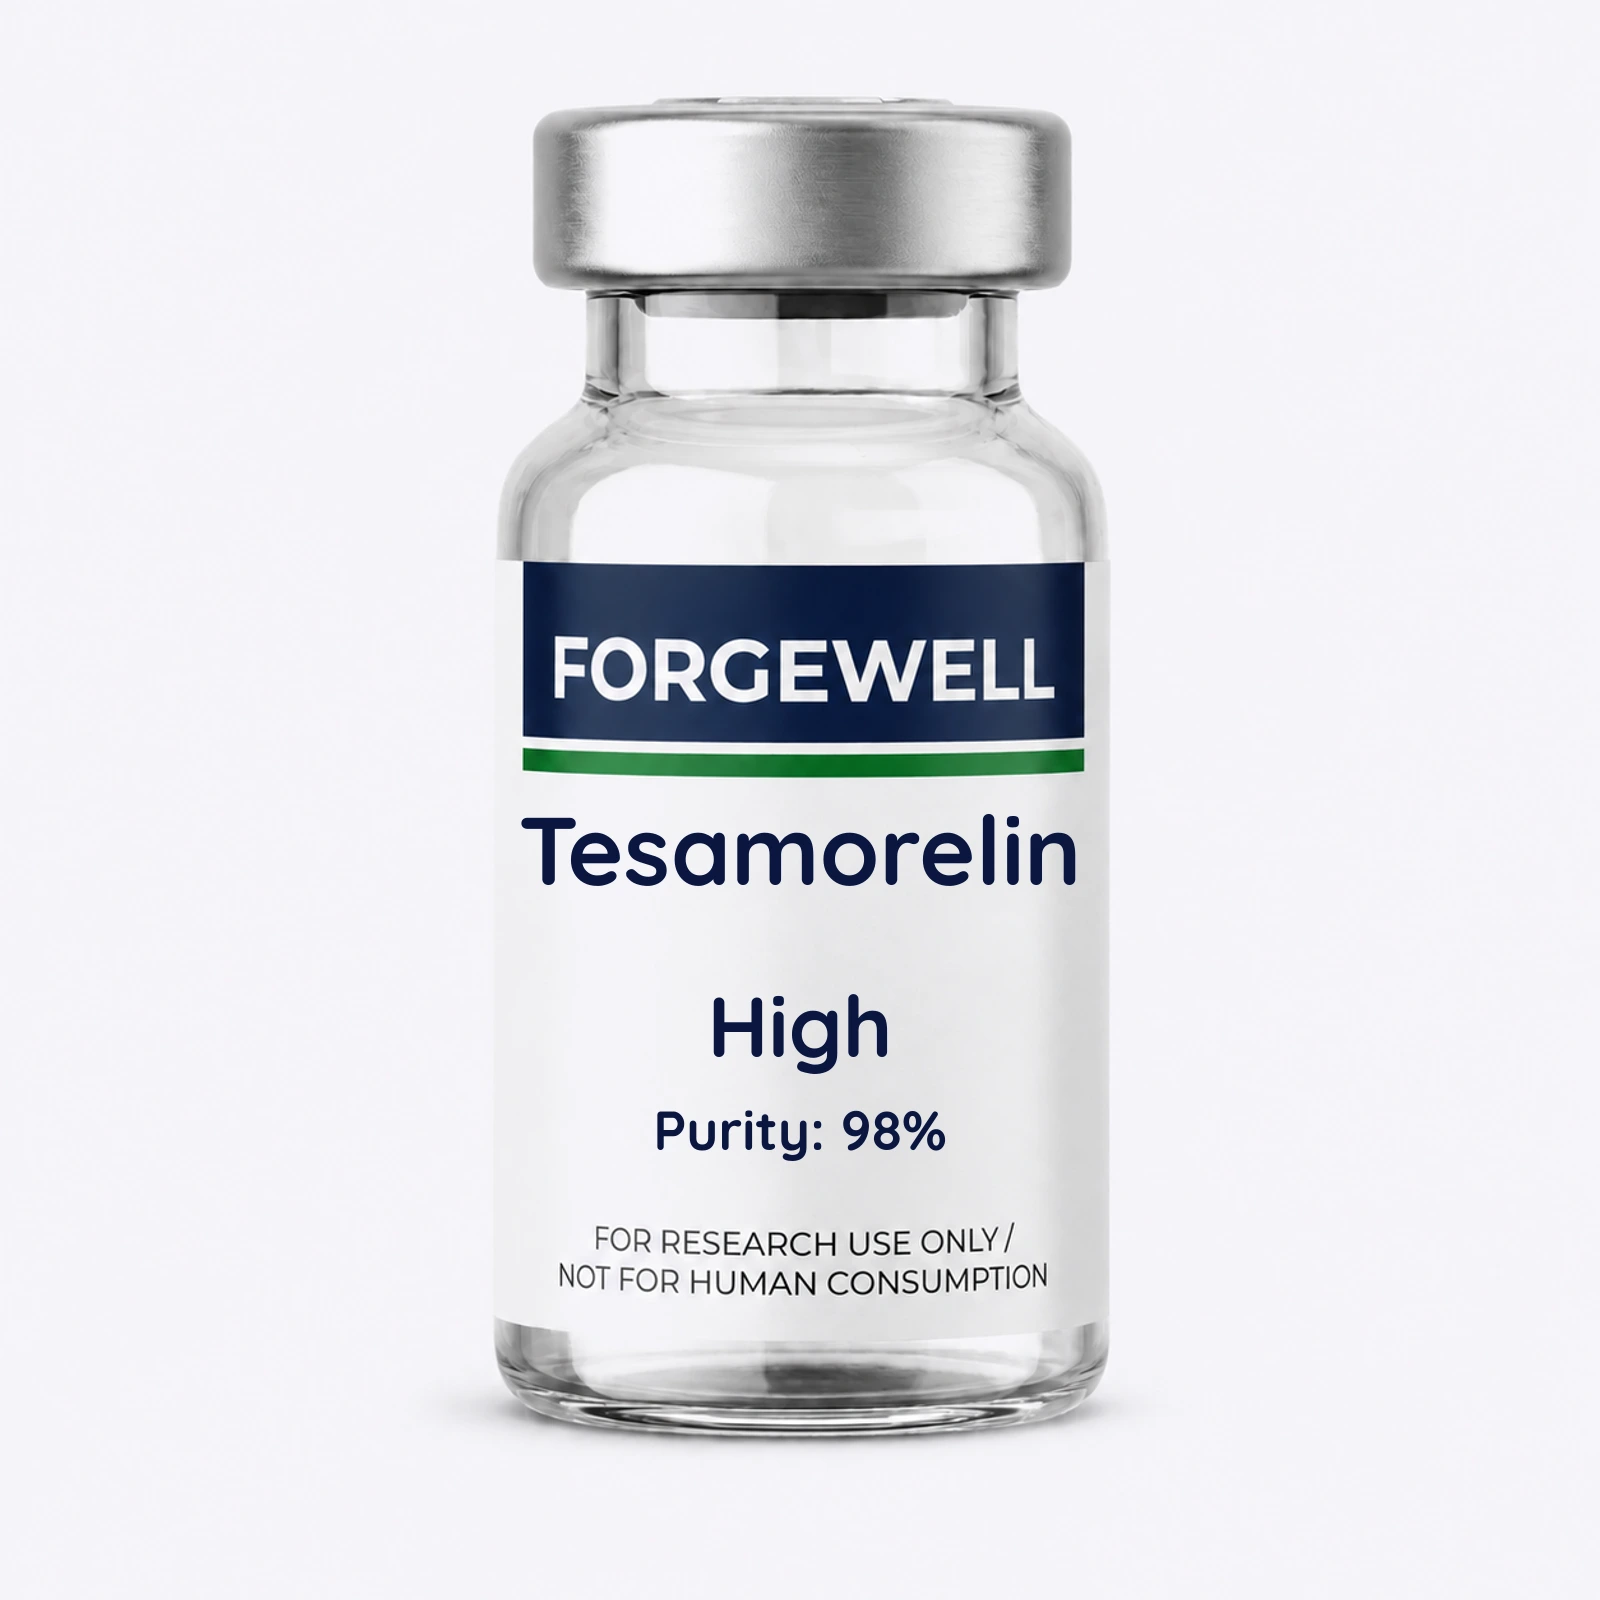
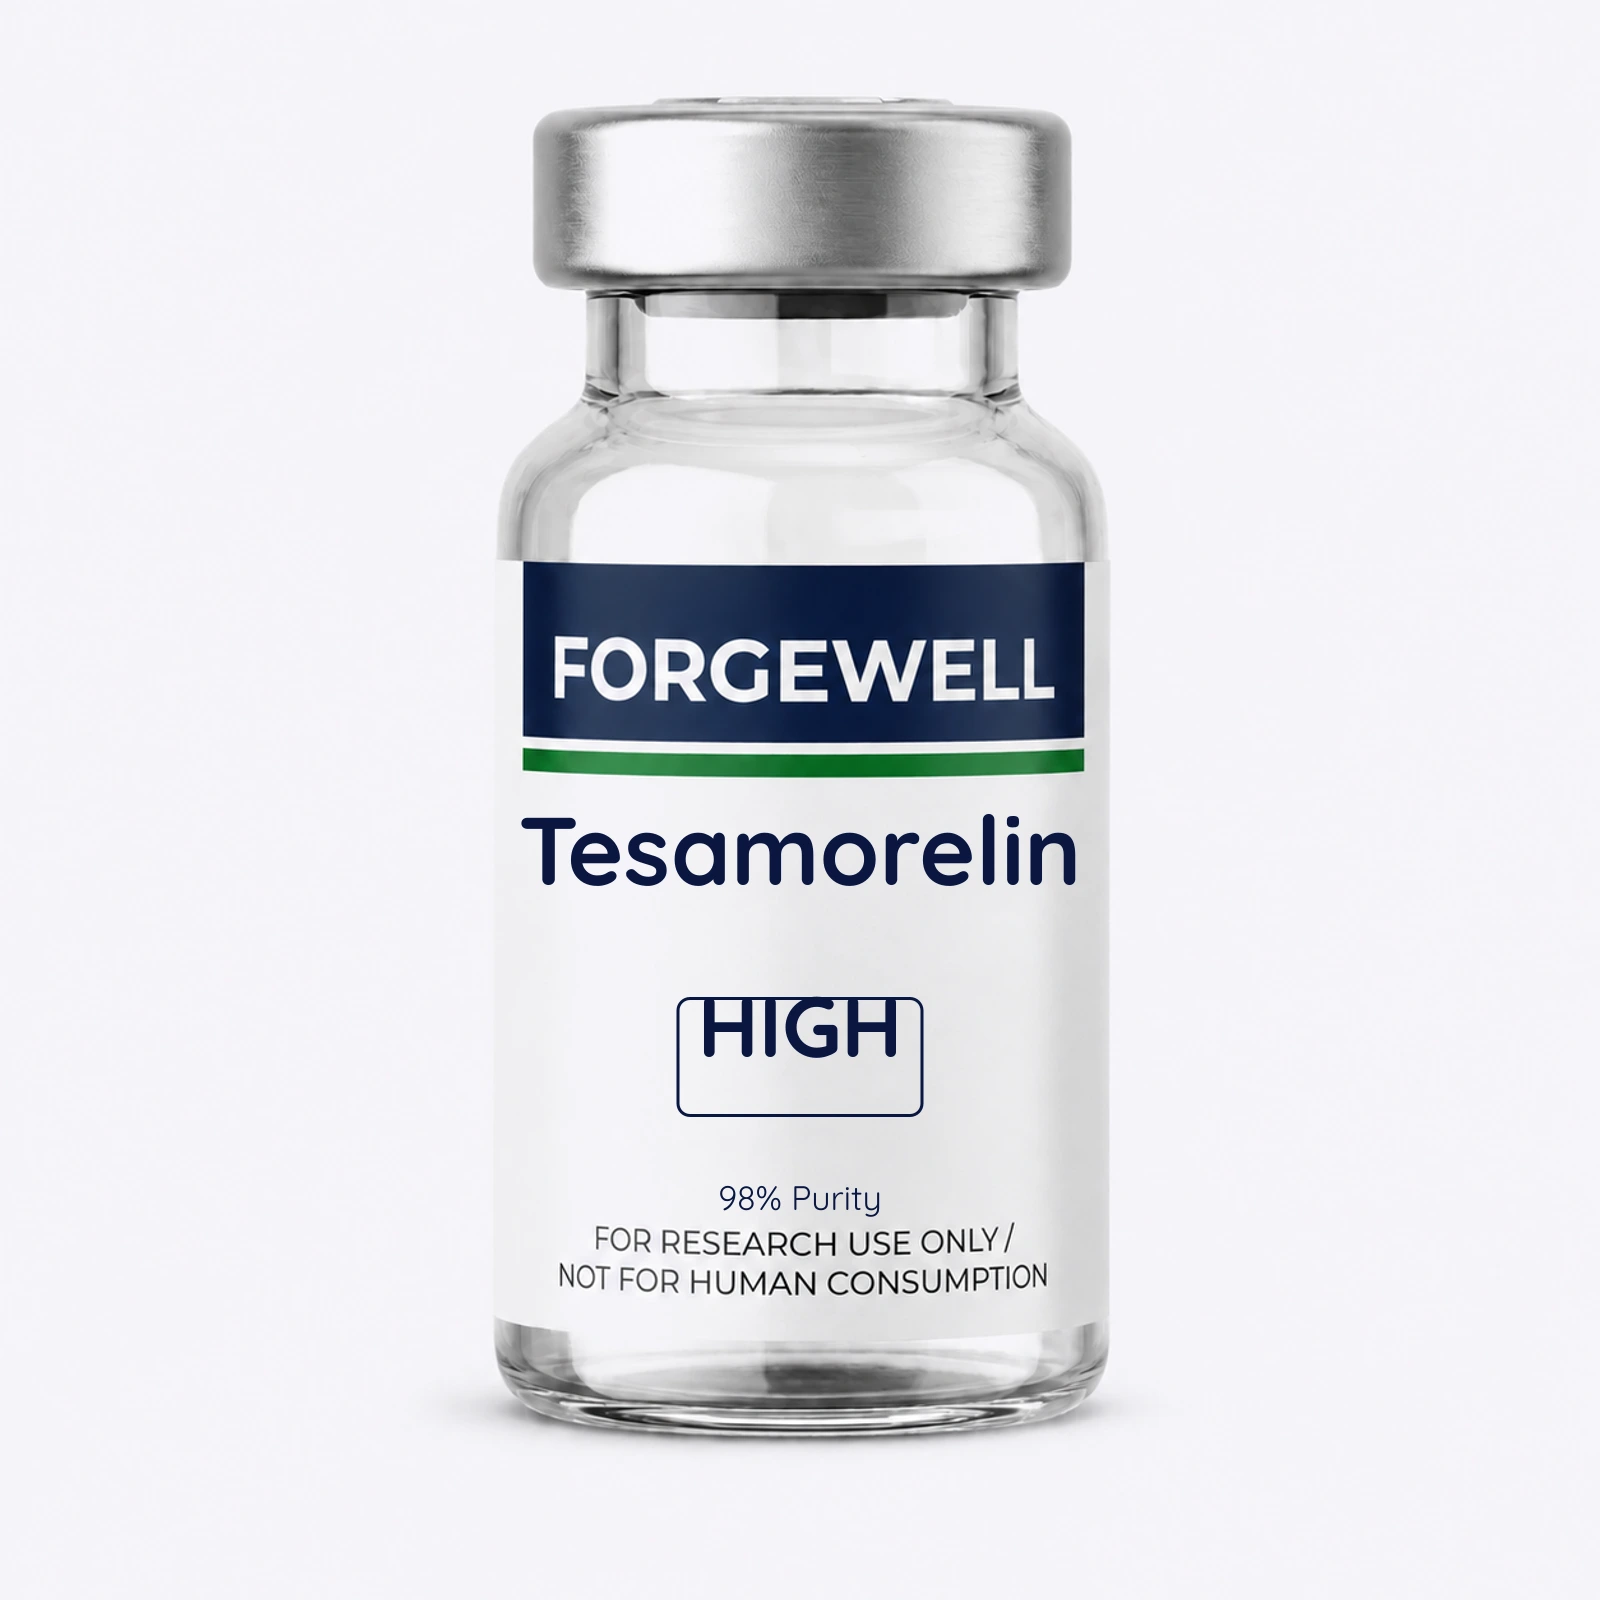
Adjust dosage/purity overlay styling on generated vial images
- Purity text reformatted from "Purity: X%" to "X% Purity"
- Purity moved down to sit tight against the fixed disclaimer text
  (deliberate, not the earlier accidental-overlap bug -- anchored to
  the measured disclaimer boundary at y=1226 regardless of whether the
  name wrapped)
- Purity unbolded (font-weight 400) and reduced to 34px (was 55/48)
- Dosage now has a rounded-rect border, sized to each value's own
  measured text width rather than a fixed box
- Dosage text is uppercased ("10MG", "HIGH", "30ML")

Re-verified against the same 5 real-catalog test cases from the prior
round (shortest/longest names, both original examples, the
shrink-to-fit case) that the three previously-fixed layout bugs
(width-based wrapping, 2-line header collision, illegible purity/
disclaimer overlap) are still holding under these style changes.

Changed region(s): [[0.4062, 0.625, 0.5938, 0.75]]

diff --git a/scripts/generate-dosage-images.js b/scripts/generate-dosage-images.js
@@ -56,17 +56,42 @@ const ZONE_BOTTOM = 1226; // measured: disclaimer line 1 (fixed) starts
 const NAME_SINGLE = { yCenter: 885, fontSize: 120 };
 const NAME_TWO_LINE = { line1YCenter: 850, line2YCenter: 955, fontSize: 88 };
 const DOSAGE_SINGLE = { yCenter: 1057, fontSize: 85 };
-const PURITY_SINGLE = { yCenter: 1150, fontSize: 55 };
 const DOSAGE_WRAPPED = { yCenter: 1075, fontSize: 75 };
-const PURITY_WRAPPED = { yCenter: 1160, fontSize: 48 };
+// Anchored to the fixed disclaimer position (ZONE_BOTTOM=1226) rather than
+// relative to dosage -- deliberately tight (~2px clearance) per explicit
+// request to sit "just above/overlapping" the disclaimer, not the old
+// accidental-overlap bug from a prior pass. Same position regardless of
+// whether the name wrapped, since it's the disclaimer (fixed either way)
+// it's anchored against, not the name.
+const PURITY = { yCenter: 1210, fontSize: 34, weight: 400 };
+const DOSAGE_BOX_PAD_X = 26;
+const DOSAGE_BOX_PAD_Y = 16;
 const MIN_FONT_SIZE = 40;
 const FONT_STEP = 4;
 
-function textSvg({ text, yCenter, fontSize, color }) {
+function textSvg({ text, yCenter, fontSize, color, weight = 700 }) {
   return `
     <svg width="${CANVAS}" height="${CANVAS}">
       <text x="800" y="${yCenter}" text-anchor="middle" dominant-baseline="central"
-            font-family="Quicksand" font-weight="700" font-size="${fontSize}"
+            font-family="Quicksand" font-weight="${weight}" font-size="${fontSize}"
+            fill="${color}">${text}</text>
+    </svg>`;
+}
+
+// Same as textSvg, plus a centered rounded-rect border sized to the text's
+// own measured width (not a fixed box) so it hugs "10MG" as snugly as
+// "5000IU" or "HIGH" without needing a per-value box size.
+function boxedTextSvg({ text, yCenter, fontSize, color, weight = 700, textWidth }) {
+  const boxW = textWidth + DOSAGE_BOX_PAD_X * 2;
+  const boxH = fontSize + DOSAGE_BOX_PAD_Y * 2;
+  const boxX = 800 - boxW / 2;
+  const boxY = yCenter - boxH / 2;
+  return `
+    <svg width="${CANVAS}" height="${CANVAS}">
+      <rect x="${boxX}" y="${boxY}" width="${boxW}" height="${boxH}" rx="12" ry="12"
+            fill="none" stroke="${color}" stroke-width="3"/>
+      <text x="800" y="${yCenter}" text-anchor="middle" dominant-baseline="central"
+            font-family="Quicksand" font-weight="${weight}" font-size="${fontSize}"
             fill="${color}">${text}</text>
     </svg>`;
 }
@@ -123,7 +148,6 @@ async function layoutName(name) {
     return {
       nameLines: [{ text: name, yCenter: NAME_SINGLE.yCenter, fontSize: NAME_SINGLE.fontSize }],
       dosage: DOSAGE_SINGLE,
-      purity: PURITY_SINGLE,
       mode: '1-line',
     };
   }
@@ -136,7 +160,6 @@ async function layoutName(name) {
     return {
       nameLines: [{ text: name, yCenter: NAME_SINGLE.yCenter, fontSize: fitSize }],
       dosage: DOSAGE_SINGLE,
-      purity: PURITY_SINGLE,
       mode: `1-line-shrunk(${fitSize}px)`,
     };
   }
@@ -157,7 +180,6 @@ async function layoutName(name) {
       { text: brokenLines[1], yCenter: NAME_TWO_LINE.line2YCenter, fontSize },
     ],
     dosage: DOSAGE_WRAPPED,
-    purity: PURITY_WRAPPED,
     mode: `2-line(${fontSize}px)`,
   };
 }
@@ -187,8 +209,18 @@ async function generate({ name, dosage, purity }) {
   const nameBufs = layout.nameLines.map((line) =>
     Buffer.from(textSvg({ text: line.text, yCenter: line.yCenter, fontSize: line.fontSize, color: TEXT_COLOR }))
   );
-  const dosageBuf = Buffer.from(textSvg({ text: dosage, yCenter: layout.dosage.yCenter, fontSize: layout.dosage.fontSize, color: TEXT_COLOR }));
-  const purityBuf = Buffer.from(textSvg({ text: `Purity: ${purity}%`, yCenter: layout.purity.yCenter, fontSize: layout.purity.fontSize, color: TEXT_COLOR }));
+
+  const dosageText = dosage.toUpperCase();
+  const dosageWidth = await measureTextWidth(dosageText, layout.dosage.fontSize);
+  const dosageBuf = Buffer.from(boxedTextSvg({
+    text: dosageText, yCenter: layout.dosage.yCenter, fontSize: layout.dosage.fontSize,
+    color: TEXT_COLOR, textWidth: dosageWidth,
+  }));
+
+  const purityBuf = Buffer.from(textSvg({
+    text: `${purity}% Purity`, yCenter: PURITY.yCenter, fontSize: PURITY.fontSize,
+    color: TEXT_COLOR, weight: PURITY.weight,
+  }));
 
   const slug = slugify(name, dosage);
   const outPath = path.join(OUT_DIR, slug + '.webp');
